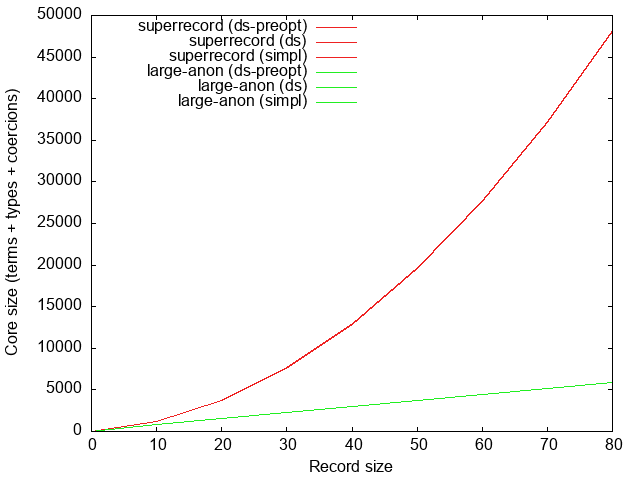
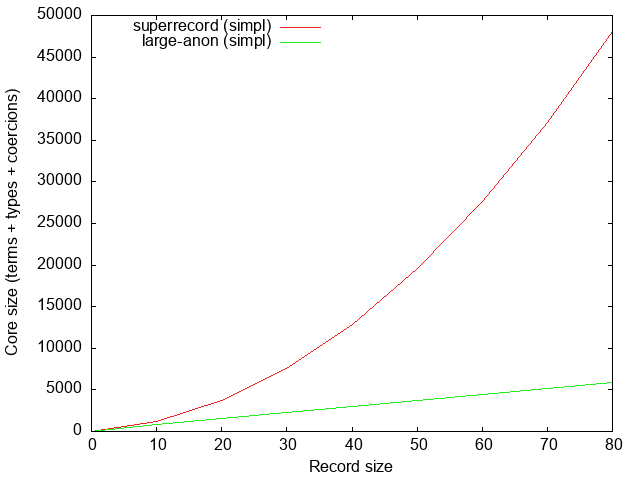
Fix incorrect statement in report
I thought superrecord was linear after the simplifier, but this was only
true because I had accidentally measured with -O1.

Changed region(s): [[0.1875, 0.0312, 0.5, 0.2188]]

diff --git a/large-records-benchmarks/report/README.md b/large-records-benchmarks/report/README.md
@@ -187,11 +187,6 @@ This overwrites half the record fields.
 
 #### Comparison with `superrecord`
 
-We show the core size for all phases here, because the coresze of `superrecord`
-is actually _constant_ for this example after the simplifier (presumably because
-it translates to unsafe functions and the type argument disappears). Compilation
-time is similar for both, however.
-
 ![](graphs/large-anon-vs-superrecord-updateone-coresize.png)
 ![](graphs/large-anon-vs-superrecord-updateone-timing.png)
 ![](graphs/large-anon-vs-superrecord-updateone-runtime.png)
